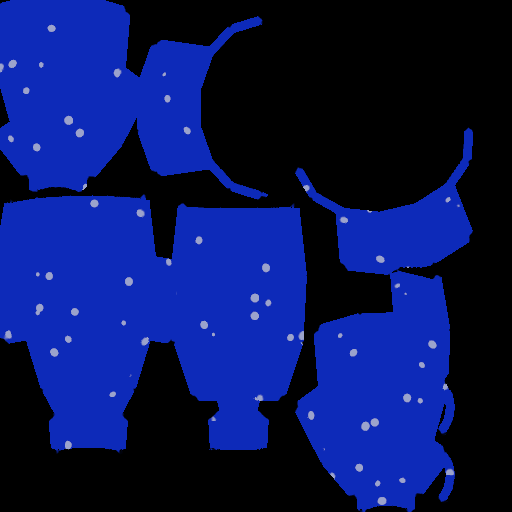
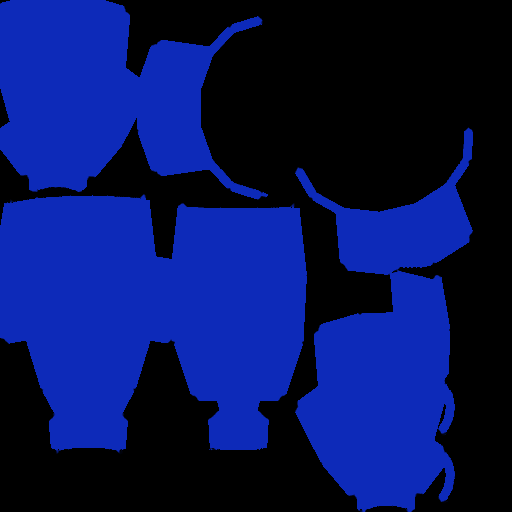
DOOM-0619: make the bubbles in the health-bonus flask rise, in both views
A third word, bubbles, on a models.csv row sets RB_FLAG_BUBBLES on the
model's material row. mesh.frag and pathtrace.comp then draw one shared
pattern (shaders/formulas/bubbles.glsl) in world space, where the model's
glow map is lit. Both read one seconds clock: the trace's ripple clock is
now RippleSeconds(), and the rasterised view gets it in ShadowUbo.time.
The painted bubbles are out of BON1's maps (rebaked; the shape is the same).

The traced view tints only the liquid's colour: it adds no HD glow to a
model. The DOOM-0539 spec's models.csv sentence names the new word.

write-code: rb_model_test's new rows seen red (2 failed) before the parser
changed, then green; make and make test green, 63 test binaries all passed;
shader_mirror_test's ShadowUbo order updated for the appended member.
Visual: E1M1 96 -2990 270, -rippletime 1 against 3, Ultra rasterised and
traced: the changed pixels sit on the flask, a same-instant repeat changes
none there. Not run: the Windows build; -shotcompare goldens (replacement
already owed); a by-eye match of the two views' bubbles.
write-doc: short path; check-doc.py ran degraded (no workflow.json), loop-log
row written.

diff --git a/linuxdoom-1.10/r_vulkan.cpp b/linuxdoom-1.10/r_vulkan.cpp
@@ -4393,6 +4393,60 @@ void DestroySceneTarget()
     }
 }
 
+// The seconds clock the moving surface effects ride: DOOM-0183's ripples and DOOM-0011's
+// wisps in the trace, DOOM-0619's bubbles in both views.
+static float RippleSeconds()
+{
+    // steady_clock is frame-rate-independent so kRippleSpeed has a fixed meaning, and immune
+    // to NTP jumps; zeroed at first use so the seconds stay small (float precision).
+    static const auto rippleT0 = std::chrono::steady_clock::now();
+    float rippleSec = std::chrono::duration<float>(std::chrono::steady_clock::now() - rippleT0).count();
+    // DOOM-0011 L1c: the shot modes must be time-INDEPENDENT. L1c's wisps ride this same
+    // clock and modulate the density of EVERY fog pixel, so a wall-clock reading would make
+    // each capture a different image and -shotcompare's MAE gate meaningless -- the same
+    // reason the noise volume itself is fixed-seed. Pin it to an arbitrary constant; the
+    // DOOM-0183 ripples riding this clock get the same determinism for free.
+    if (rb_shotverify == 1) rippleSec = 8.0f;
+    // DOOM-0300: `-rippletime <sec>` moves that pin. The wisps' whole job is to change over
+    // time, which is the one thing a single still frame cannot show -- measuring them means
+    // capturing the SAME view at several chosen instants and diffing. Without this the only
+    // way to move the pinned constant is a rebuild per sample. Verification affordance, in
+    // the same family as -warpto and -shotverify; it changes nothing unless passed.
+    {
+        static const float overrideSec = []() -> float {
+            int   p = M_CheckParm("-rippletime");
+            float v;
+            // A value that is not wholly a number is refused, not read as 0.0:
+            // atof("fast") was 0.0, which passes the >= 0 test below and pinned
+            // the ripple clock at zero.
+            //
+            // DOOM-0405: and the refusal is PRINTED. This flag exists to capture the
+            // same view at chosen instants and diff them; a refused value silently
+            // leaves the clock free-running, so the captures differ for a reason the
+            // person diffing them cannot see. The lambda runs once, so does the line.
+            if (!p)
+                return -1.0f;
+            if (p + 1 >= myargc) {
+                printf("-rippletime: no value given; the ripple clock runs free.\n");
+                return -1.0f;
+            }
+            if (!RB_ParseFloatArg(myargv[p + 1], &v)) {
+                printf("-rippletime: \"%s\" is not a finite number; "
+                       "the ripple clock runs free.\n", myargv[p + 1]);
+                return -1.0f;
+            }
+            if (v < 0.0f) {
+                printf("-rippletime: %g is negative; the ripple clock runs free.\n",
+                       (double)v);
+                return -1.0f;
+            }
+            return v;
+        }();
+        if (overrideSec >= 0.0f) rippleSec = overrideSec;
+    }
+    return rippleSec;
+}
+
 // mesh.frag's ShadowUbo (set 1, binding 1), byte for byte. lightVP is written on
 // torch-on frames; DOOM-0273's flags every raster frame: x = surface detail
 // (SurfaceDetailLane), y = DOOM-0103's specular setting (SpecularLane), z = surface-map base,
@@ -4402,8 +4456,10 @@ struct ShadowUboData
     float    lightVP[16];
     uint32_t flags[4];
     uint32_t hd[4];      // DOOM-0182: mesh.frag's HD lane; see ShadowUbo there
+    float    time[4];    // DOOM-0619: x = RippleSeconds(), the trace's clock; the rest unused
 };
 static_assert(offsetof(ShadowUboData, flags) == 64, "flags follows lightVP, as in mesh.frag");
+static_assert(offsetof(ShadowUboData, time) == 96, "time follows hd, as in mesh.frag");
 
 // DOOM-0170 L2c — build the flashlight cast-shadow map (§4.4): a fixed 2048^2 depth image
 // the world renders into from the torch's viewpoint, plus its render pass, framebuffer,
@@ -7255,7 +7311,8 @@ static bool LoadHdMaterials(bool usePack)
         char line[256];
         while (fgets(line, sizeof(line), mf)) {
             char spr[5], file[192], full[720];
-            const int rc = RB_ModelCsvLine(line, spr, file, sizeof(file));
+            int       bubbles;
+            const int rc = RB_ModelCsvLine(line, spr, file, sizeof(file), &bubbles);
             if (rc < 0) printf("DOOM-0539: %s: malformed row - skipped.\n", modelCsv);
             if (rc != 1) continue;
             int sprite;
@@ -7274,7 +7331,8 @@ static bool LoadHdMaterials(bool usePack)
                 rowForId[id]        = (int)rows.size() - 1;
                 isModel[id]         = 1;
                 table[id].usePBR    = 1u;
-                table[id].flags     = RB_FLAG_NO_DETILE;   // de-tiling would scramble an atlas
+                // De-tiling would scramble an atlas. A sprite's first row decides its bubbles.
+                table[id].flags     = RB_FLAG_NO_DETILE | (bubbles ? RB_FLAG_BUBBLES : 0u);
             }
             models.push_back({ sprite, id, model, spr });
         }
@@ -9756,55 +9814,9 @@ void RecordRtTrace(uint32_t idx)
     // DOOM-0187: filth master toggle (misc5.w) from rb_filth (1=on,0=off; `[` key). Not HD-gated —
     // applyGrime paints paletted surfaces too — so this is a plain runtime on/off of the stain layer.
     pc.misc5[3]    = rb_filth ? 1u : 0u;
-    // DOOM-0183: ripple time (seconds, wall-clock) + wet toggle (misc6). steady_clock is
-    // frame-rate-independent so kRippleSpeed has a fixed meaning, and immune to NTP jumps;
-    // zeroed at first use so the seconds stay small (float precision). y gates the shader's
-    // sheen/ripple/puddle layers only (rb_wet) — never the glow (that Le is CPU-built).
-    static const auto rippleT0 = std::chrono::steady_clock::now();
-    float rippleSec = std::chrono::duration<float>(std::chrono::steady_clock::now() - rippleT0).count();
-    // DOOM-0011 L1c: the shot modes must be time-INDEPENDENT. L1c's wisps ride this same
-    // clock and modulate the density of EVERY fog pixel, so a wall-clock reading would make
-    // each capture a different image and -shotcompare's MAE gate meaningless -- the same
-    // reason the noise volume itself is fixed-seed. Pin it to an arbitrary constant; the
-    // DOOM-0183 ripples riding this clock get the same determinism for free.
-    if (rb_shotverify == 1) rippleSec = 8.0f;
-    // DOOM-0300: `-rippletime <sec>` moves that pin. The wisps' whole job is to change over
-    // time, which is the one thing a single still frame cannot show -- measuring them means
-    // capturing the SAME view at several chosen instants and diffing. Without this the only
-    // way to move the pinned constant is a rebuild per sample. Verification affordance, in
-    // the same family as -warpto and -shotverify; it changes nothing unless passed.
-    {
-        static const float overrideSec = []() -> float {
-            int   p = M_CheckParm("-rippletime");
-            float v;
-            // A value that is not wholly a number is refused, not read as 0.0:
-            // atof("fast") was 0.0, which passes the >= 0 test below and pinned
-            // the ripple clock at zero.
-            //
-            // DOOM-0405: and the refusal is PRINTED. This flag exists to capture the
-            // same view at chosen instants and diff them; a refused value silently
-            // leaves the clock free-running, so the captures differ for a reason the
-            // person diffing them cannot see. The lambda runs once, so does the line.
-            if (!p)
-                return -1.0f;
-            if (p + 1 >= myargc) {
-                printf("-rippletime: no value given; the ripple clock runs free.\n");
-                return -1.0f;
-            }
-            if (!RB_ParseFloatArg(myargv[p + 1], &v)) {
-                printf("-rippletime: \"%s\" is not a finite number; "
-                       "the ripple clock runs free.\n", myargv[p + 1]);
-                return -1.0f;
-            }
-            if (v < 0.0f) {
-                printf("-rippletime: %g is negative; the ripple clock runs free.\n",
-                       (double)v);
-                return -1.0f;
-            }
-            return v;
-        }();
-        if (overrideSec >= 0.0f) rippleSec = overrideSec;
-    }
+    // DOOM-0183: ripple time + wet toggle (misc6). y gates the shader's sheen/ripple/puddle
+    // layers only (rb_wet) -- never the glow (that Le is CPU-built).
+    const float rippleSec = RippleSeconds();
     std::memcpy(&pc.misc6[0], &rippleSec, sizeof(float));
     pc.misc6[1]    = rb_wet ? 1u : 0u;
     pc.misc7[0]    = SurfaceDetailLane();
@@ -11410,6 +11422,7 @@ extern "C" void RB_Vulkan_Present(void)
         hd[1] = (uint32_t)rb_detile;
         hd[2] = (g.hdDirtIdx >= 0) ? (uint32_t)g.hdDirtIdx : 0xFFFFFFFFu;
         hd[3] = rb_filth ? 1u : 0u;
+        static_cast<ShadowUboData*>(g.shadowUboMapped)->time[0] = RippleSeconds();   // DOOM-0619
     }
 
     // DOOM-0170 L2c: flashlight cast-shadow map (Pass A). When the torch is on, render the

diff --git a/linuxdoom-1.10/tests/rb_model_test.cpp b/linuxdoom-1.10/tests/rb_model_test.cpp
@@ -223,16 +223,27 @@ int main()
     // 6.
     {
         char spr[5], file[16];
-        check(RB_ModelCsvLine("BON1,models/B.dmdl\n", spr, file, sizeof file) == 1
+        int  bub = 1;
+        check(RB_ModelCsvLine("BON1,models/B.dmdl\n", spr, file, sizeof file, &bub) == 1
                   && !std::strcmp(spr, "BON1") && !std::strcmp(file, "models/B.dmdl"),
               "a row gives its sprite and file");
-        check(RB_ModelCsvLine("  # note\n", spr, file, sizeof file) == 0, "a comment is no row");
-        check(RB_ModelCsvLine("\r\n", spr, file, sizeof file) == 0, "a blank line is no row");
-        check(RB_ModelCsvLine("BON,x.dmdl\n", spr, file, sizeof file) == -1, "a short sprite name is malformed");
-        check(RB_ModelCsvLine("BON1\n", spr, file, sizeof file) == -1, "no file column is malformed");
-        check(RB_ModelCsvLine("BON1,\n", spr, file, sizeof file) == -1, "an empty file is malformed");
-        check(RB_ModelCsvLine("BON1,a b\n", spr, file, sizeof file) == -1, "a second word is malformed");
-        check(RB_ModelCsvLine("BON1,models/too-long-path.dmdl\n", spr, file, sizeof file) == -1,
+        check(bub == 0, "a row with no third word does not bubble");
+        check(RB_ModelCsvLine("BON1,models/B.dmdl,bubbles\r\n", spr, file, sizeof file, &bub) == 1
+                  && !std::strcmp(file, "models/B.dmdl") && bub == 1,
+              "the word bubbles marks the row and stays out of the file name");
+        check(RB_ModelCsvLine("BON1,models/B.dmdl,bubble\n", spr, file, sizeof file, &bub) == -1,
+              "any other third word is malformed");
+        check(RB_ModelCsvLine("BON1,models/B.dmdl,\n", spr, file, sizeof file, &bub) == -1,
+              "an empty third word is malformed");
+        check(RB_ModelCsvLine("BON1,models/B.dmdl,bubbles,x\n", spr, file, sizeof file, &bub) == -1,
+              "a fourth word is malformed");
+        check(RB_ModelCsvLine("  # note\n", spr, file, sizeof file, &bub) == 0, "a comment is no row");
+        check(RB_ModelCsvLine("\r\n", spr, file, sizeof file, &bub) == 0, "a blank line is no row");
+        check(RB_ModelCsvLine("BON,x.dmdl\n", spr, file, sizeof file, &bub) == -1, "a short sprite name is malformed");
+        check(RB_ModelCsvLine("BON1\n", spr, file, sizeof file, &bub) == -1, "no file column is malformed");
+        check(RB_ModelCsvLine("BON1,\n", spr, file, sizeof file, &bub) == -1, "an empty file is malformed");
+        check(RB_ModelCsvLine("BON1,a b\n", spr, file, sizeof file, &bub) == -1, "a second word is malformed");
+        check(RB_ModelCsvLine("BON1,models/too-long-path.dmdl\n", spr, file, sizeof file, &bub) == -1,
               "a path too long is malformed, never cut short");
     }
 

diff --git a/linuxdoom-1.10/rb_model.h b/linuxdoom-1.10/rb_model.h
@@ -134,13 +134,17 @@ static inline int RB_ModelRead(FILE* f, rb_model_t* out)
     return RB_ModelParse(buf, fread(buf, 1, sizeof buf, f), out);
 }
 
-// One line of models.csv, `sprite,file`. Returns 1 for a row, 0 for a comment or blank line,
-// -1 for anything else. A file path too long for its buffer is malformed, never truncated.
-static inline int RB_ModelCsvLine(const char* line, char sprite[5], char* file, size_t filesz)
+// One line of models.csv, `sprite,file` or `sprite,file,bubbles`. Returns 1 for a row, 0 for a
+// comment or blank line, -1 for anything else. A file path too long for its buffer is
+// malformed, never truncated. *bubbles is 1 for a row whose third word is `bubbles`
+// (DOOM-0619: the model's glowing liquid draws rising bubbles), else 0.
+static inline int RB_ModelCsvLine(const char* line, char sprite[5], char* file, size_t filesz,
+                                  int* bubbles)
 {
     const char* comma;
     size_t      len;
 
+    *bubbles = 0;
     line += strspn(line, " \t\r\n");
     if (!*line || *line == '#')
         return 0;
@@ -149,12 +153,18 @@ static inline int RB_ModelCsvLine(const char* line, char sprite[5], char* file, 
         return -1;
     memcpy(sprite, line, 4);
     sprite[4] = '\0';
-    len = strcspn(comma + 1, " \t\r\n");
-    if (len == 0 || len >= filesz || (comma + 1)[len + strspn(comma + 1 + len, " \t\r\n")])
+    len = strcspn(comma + 1, ", \t\r\n");
+    if (len == 0 || len >= filesz)
         return -1;
     memcpy(file, comma + 1, len);
     file[len] = '\0';
-    return 1;
+    line = comma + 1 + len;
+    if (!strncmp(line, ",bubbles", 8))
+    {
+        *bubbles = 1;
+        line += 8;
+    }
+    return line[strspn(line, " \t\r\n")] ? -1 : 1;
 }
 
 #endif

diff --git a/linuxdoom-1.10/tests/shader_mirror_test.cpp b/linuxdoom-1.10/tests/shader_mirror_test.cpp
@@ -198,8 +198,8 @@ int main()
     check(tail(cPc, 2) == "misc6 misc7 ", "RtPushConstants ends misc6, misc7");
     const auto glslUbo = members(ms, "uniform ShadowUbo");
     const auto cUbo    = members(vk, "struct ShadowUboData");
-    check(tail(glslUbo, 9) == "lightVP flags hd ", "mesh.frag's ShadowUbo is lightVP, flags, hd");
-    check(tail(cUbo, 9) == "lightVP flags hd ", "r_vulkan.cpp's ShadowUboData is lightVP, flags, hd");
+    check(tail(glslUbo, 9) == "lightVP flags hd time ", "mesh.frag's ShadowUbo is lightVP, flags, hd, time");
+    check(tail(cUbo, 9) == "lightVP flags hd time ", "r_vulkan.cpp's ShadowUboData is lightVP, flags, hd, time");
     const std::string sd = slurp(DOOM_TESTS_ROOT "/shaders/formulas/surface_detail.glsl");
     check(!sd.empty(), "surface_detail.glsl is readable");
     same(sd, "SURF_DETAIL_ON", vk, "kSurfaceDetailOn");

diff --git a/linuxdoom-1.10/rb_materials.h b/linuxdoom-1.10/rb_materials.h
@@ -19,6 +19,8 @@ enum { RB_ALB = 0, RB_NRM, RB_RGH, RB_MET, RB_AO, RB_EMIS, RB_HGT };
 #define RB_FLAG_LIQUID_LAVA   16u
 /* Designed art, such as a computer panel: shuffling its cells to hide repeats would scramble it. */
 #define RB_FLAG_NO_DETILE 32u
+/* DOOM-0619: a model whose glowing liquid draws rising bubbles (models.csv, never the sidecar). */
+#define RB_FLAG_BUBBLES 64u
 #define RB_FLAG_BAD    0x80000000u   /* unknown flags token — caller treats row malformed */
 
 typedef struct {

diff --git a/ROADMAP.md b/ROADMAP.md
@@ -20104,7 +20104,7 @@ in CLAUDE.md describes.
   Source: user-request-2026-11-15.
   Lanes: renderer.
 
-- 📋 [DOOM-0619] **Make the bubbles in the health-bonus flask rise, in both views.**
+- 🚧 [DOOM-0619] **Make the bubbles in the health-bonus flask rise, in both views.**
   User 2026-11-15: "If the bubbles can be animated, that would be
   great." Today the bubbles are painted into BON1's colour and glow maps,
   so they cannot move. The raster pass has no clock (mesh.frag reads no
@@ -20125,6 +20125,23 @@ in CLAUDE.md describes.
   shader where a flagged model's glow map is lit, from a pattern that
   moves up with a clock, and take the painted bubbles out of the bake.
   pathtrace.comp has the clock (rippleTime); mesh.frag has none.
+  2026-11-20: the rising bubbles are built; the user's look is owed.
+  The note above was wrong on one point: mesh.frag did have a clock,
+  a 35 Hz count for the Spectre. The bubbles do not use it. Both
+  views now read one seconds clock (RippleSeconds in r_vulkan.cpp;
+  the rasterised view gets it in ShadowUbo.time), and one pattern
+  (shaders/formulas/bubbles.glsl), drawn in world space where a
+  marked model's glow map is lit. The mark is a third word, bubbles,
+  on the model's models.csv row (RB_FLAG_BUBBLES). The painted
+  bubbles are out of pickups/doom_bon1.py and BON1's maps are
+  rebaked. Measured at E1M1 `96 -2990 270`, clock pinned with
+  -rippletime 1 and 3: the changed pixels sit on the flask in both
+  views, and a repeat at the same instant changes none there.
+  Pictures: Scratchpad d0642/c3/flask-sheet.png. Not checked by
+  eye: that the two views show the same bubbles at the same
+  instant; that the speed and number look right in play. The
+  traced view tints only the liquid's colour, since it adds no HD
+  glow to a model. Dials: the constants at the top of bubbles.glsl.
   **Layman:** The little bubbles inside the blue health vial drift upward instead of sitting still.
   Kind: feature.
   Source: user-request-2026-11-15.

diff --git a/docs/reviews/DOOM-0539-pickup-models-loop-log.md b/docs/reviews/DOOM-0539-pickup-models-loop-log.md
@@ -13,3 +13,4 @@
 | impl | 2026-11-17 | 0 | - | - | - | - | Not a review; no reviewer dispatched. DOOM-0626: §5 says a level loads only the models of sprites it can show, drops included (RB_MarkLevelSprites, tests/model_drops_test.cpp), and that over the ceiling a model is the first row turned back to paletted. |
 | impl | 2026-11-20 | 0 | - | - | - | - | Not a review; no reviewer dispatched. DOOM-0631: § 4.5 says the swap between a model and its sprite is a dithered fade over the last stretch before the cutoff (RB_ModelFadeLevel, RB_MESH_FADE_*, modelFadeKeeps; tests/sprite_cap_test.cpp case 5). No invariant added or changed. |
 | impl | 2026-11-20 | 0 | - | - | - | - | Not a review; no reviewer dispatched. DOOM-0641: § 4.3 lets models.csv name a sprite on up to four rows, each a variant picked per Thing by thing_hash, and takes the turn from where the map placed the Thing; § 5 gives a sprite with variants 1024x1024 maps. No invariant added or changed. |
+| impl | 2026-11-20 | 0 | - | - | - | - | Not a review; no reviewer dispatched. DOOM-0619: § 4.3 says a third word, bubbles, on a sprite's first models.csv row sets RB_FLAG_BUBBLES, and both views draw rising bubbles where that model's glow map is lit (shaders/formulas/bubbles.glsl; tests/rb_model_test.cpp case 6). No invariant added or changed. |

diff --git a/docs/specs/DOOM-0539-pickup-models.md b/docs/specs/DOOM-0539-pickup-models.md
@@ -86,7 +86,9 @@ outside 0..1, a light channel below 0 or over `RB_MODEL_MAX_LIGHT_RGB`, a reach 
 
 ### 4.3 Drawing
 
-`assets/ultra/models.csv` lists `sprite,file`. `RB_BuildSprites` gets one more branch: under
+`assets/ultra/models.csv` lists `sprite,file`. A third word, `bubbles`, on a sprite's first row sets
+`RB_FLAG_BUBBLES` on its `ctrl[]` row: both views then draw rising bubbles where its glow map is lit
+(`shaders/formulas/bubbles.glsl`, DOOM-0619). `RB_BuildSprites` gets one more branch: under
 `RB_RT3D`, a Thing whose current sprite has a loaded model emits that model's triangles,
 placed at the Thing and turned by a fixed angle, in place of `sprite_quad`. The angle comes from
 where the map placed the Thing (`thing_hash`), so a shot barrel does not turn as it slides; a monster's

diff --git a/CHANGELOG.md b/CHANGELOG.md
@@ -8,6 +8,11 @@ All notable changes to DOOM_Ants are documented here. The format follows
 
 ### Added
 
+- **The bubbles in Ultra's health-bonus flask rise** (DOOM-0619)
+  Small pale bubbles drift up through the blue liquid, in the
+  rasterised and the ray-traced view alike. They used to be painted
+  on and sat still.
+
 - **The game now adjusts its own resolution to hold the frame rate** (DOOM-0596)
   Render Scale has a new choice, Dynamic, and it is the default. In a
   heavy scene the game draws a little smaller, and larger again when
